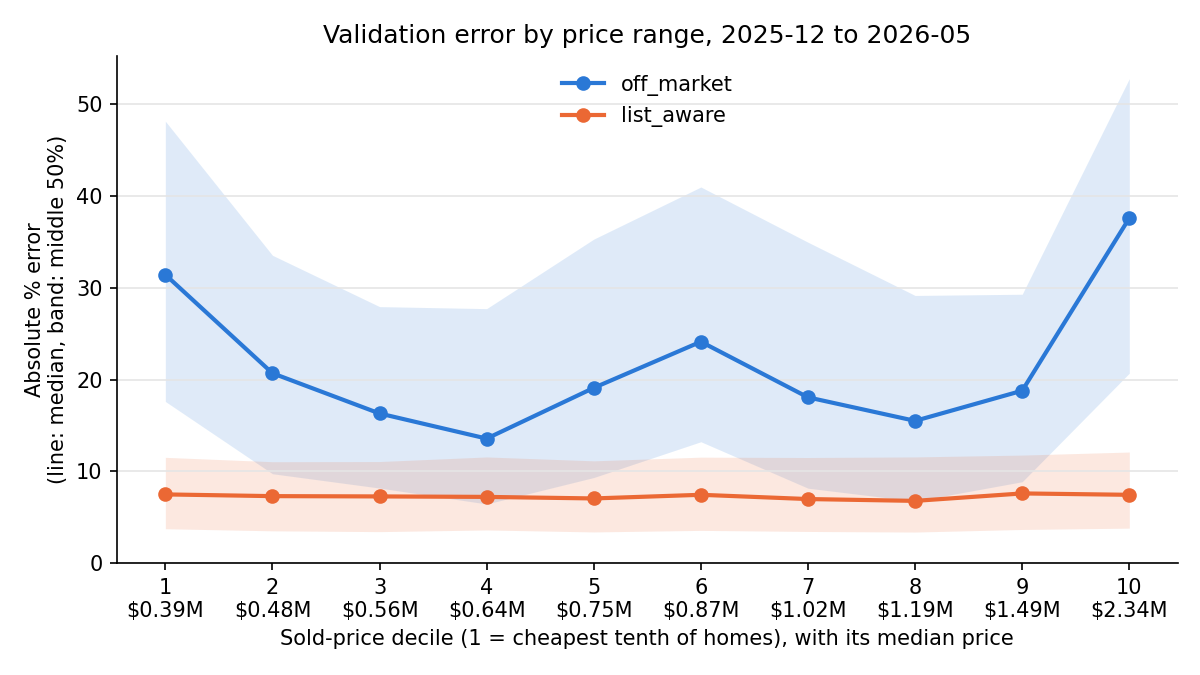
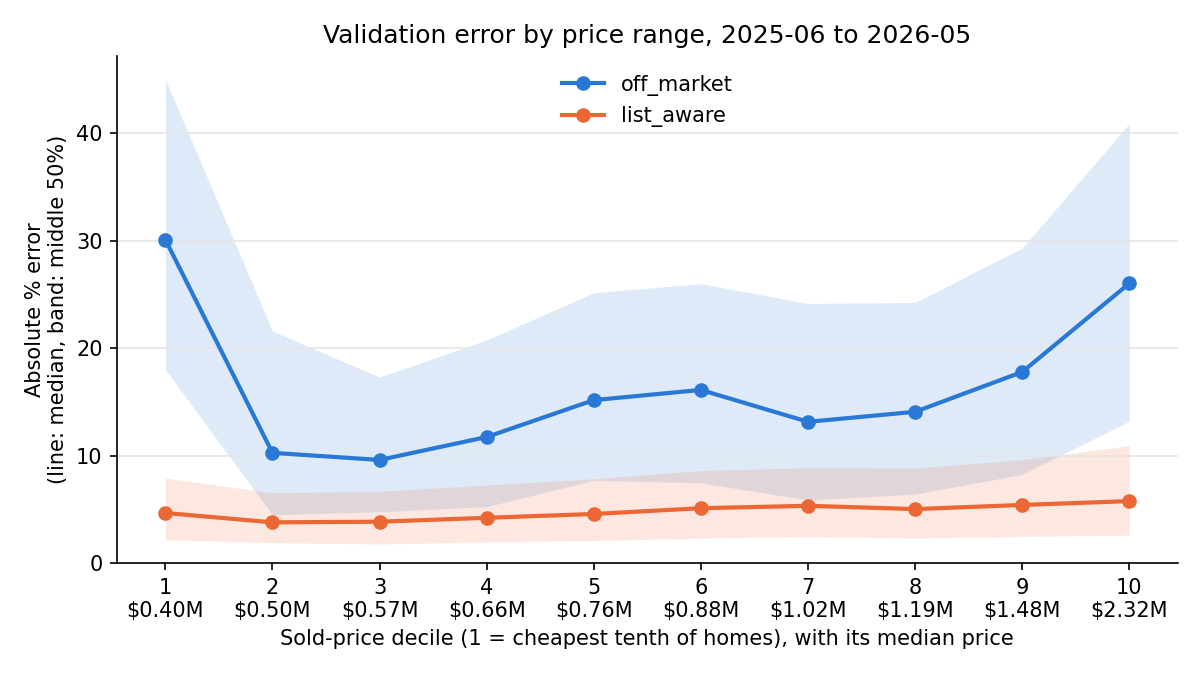
Switch on FeatureModel and validate 4 months ahead like the hidden test
Both tracks now use the gradient-boosted FeatureModel on the starter
features. Validation now mirrors the hidden test (train through May,
predict June to September): three folds with cutoffs 2025-06, 2025-10
and 2026-02, each predicting the 4 months after it. Predictions record
months_ahead, and the validation report adds MdAPE by months ahead.

Logged experiments (MdAPE, off-market / list-aware):
- 1: FeatureModel, 1-month validation: 14.87% / 4.61%
- 2: FeatureModel, 4-month validation: 15.52% / 4.71%
- 3: starter baselines, 4-month validation: 20.94% / 7.17%

Off-market error grows from 14.4% to 16.1% between 1 and 4 months
ahead, and its bias follows the market after the cutoff; notebook
entries cover this.

diff --git a/report/notebook.tex b/report/notebook.tex
@@ -74,6 +74,146 @@ Switch on the gradient-boosted \texttt{FeatureModel} for both tracks, then make 
 up to four months ahead, as the hidden test does.
 
 % ---------------------------------------------------------------------------------------
+\section*{Experiment 1: gradient-boosted trees on the starter features}
+
+\paragraph{What changed.}
+\texttt{make\_model} now returns \texttt{FeatureModel} for both tracks: gradient-boosted trees
+(scikit-learn's \texttt{HistGradientBoostingRegressor}, default settings) predicting log price from
+the starter features. These are square feet, bedrooms, washrooms, parking, latitude, longitude,
+months since January 2021 and property type, plus the list price for list-aware.
+
+\paragraph{Why.}
+Unlike the baselines, it can use each home's own size and features. The handout presents it as
+the first model to switch on.
+
+\paragraph{Result.}
+
+\begin{center}
+\small
+\input{experiments/experiment_01_results.tex}
+\end{center}
+
+\begin{center}
+\includegraphics[width=0.8\linewidth]{experiment_01_error_by_price_range.png}
+\end{center}
+
+\paragraph{What we learned.}
+\begin{itemize}
+\item \textbf{A large gain on both tracks.} Off-market MdAPE fell from 20.84\% to 14.87\%, below
+  the 17.7\% bar. List-aware fell from 7.26\% to 4.61\%: the model learns that homes sell below
+  list, and by how much for each type.
+\item \textbf{The overpricing is mostly gone:} median signed error +1.0\% off-market, +0.7\%
+  list-aware.
+\item \textbf{Off-market still squeezes prices towards the middle.} The cheapest tenth is
+  overpriced by 30\% and the dearest tenth underpriced by 24\%. The features say little about
+  what makes a home cheap or dear for its area: neighbourhood price level, lot size, condition.
+\item \textbf{By type (off-market):} condo apartments 14.0\%, detached 17.3\%, co-op apartments
+  26.0\% (only 48 homes). List-aware is weakest on semi-detached (6.1\%) and detached (5.9\%)
+  homes.
+\end{itemize}
+
+\paragraph{Next.}
+This validation predicts only one month ahead, but the hidden test predicts up to four. Fix that
+before trusting any number.
+
+% ---------------------------------------------------------------------------------------
+\section*{Experiment 2: validation four months ahead, like the hidden test}
+
+\paragraph{What changed.}
+Validation only, not the model. Before, each month from December 2025 to May 2026 was predicted
+from all sales before it, so always one month ahead. The hidden test trains on sales up to May
+2026 and predicts homes sold June to September, one to four months ahead. Validation now does the
+same in three folds: it trains on sales before June 2025, October 2025 and February 2026, and
+predicts the four months after each, twelve months in all. The report gains a table of error by
+months ahead.
+
+\paragraph{Why.}
+Validation should be a fair preview of the hidden test, since the judges compare the two (10
+points for honesty). A one-month-ahead score overstates how well a model does four months out.
+
+\paragraph{Result.}
+
+\begin{center}
+\small
+\input{experiments/experiment_02_results.tex}
+\end{center}
+
+\begin{center}
+\small
+\begin{tabular}{lcccc}
+\toprule
+Months ahead & 1 & 2 & 3 & 4 \\
+\midrule
+Off-market MdAPE \% & 14.4 & 15.8 & 15.9 & 16.1 \\
+Off-market median signed error \% & +2.2 & +3.0 & +3.4 & +3.7 \\
+List-aware MdAPE \% & 4.7 & 4.6 & 4.7 & 4.8 \\
+\bottomrule
+\end{tabular}
+\end{center}
+
+\paragraph{What we learned.}
+\begin{itemize}
+\item \textbf{The honest off-market error is 15.52\%, not 14.87\%,} and it rises from 14.4\% one
+  month ahead to 16.1\% four months ahead. Part of the change from experiment 1 also comes from
+  covering different months. The months-ahead table, all on the same homes, isolates the
+  effect of the horizon.
+\item \textbf{The model cannot follow the market past its last training month.} Trees hold the
+  \texttt{months} feature at its last value. In the June to September 2025 fold the market was
+  falling and off-market overpricing grew from +3.7\% in June to +9.8\% in August. In February to
+  May 2026 it was slightly negative ($-0.6$ to $-2.2$\%). The bias follows whatever the market did
+  after the cutoff.
+\item \textbf{The fold most like the hidden test is the worst.} June to September 2025, the same
+  season as the test, has off-market MdAPE from 14.7\% to 17.3\%.
+\item \textbf{List-aware barely changes with the horizon} (4.6\% to 4.8\%): the list price already
+  carries the current market.
+\end{itemize}
+
+\paragraph{Next.}
+Starter baselines under this validation, to measure the gap fairly (experiment 3). Then a market
+price index, so the model can project prices past May 2026.
+
+% ---------------------------------------------------------------------------------------
+\section*{Experiment 3: starter baselines under the four-month validation}
+
+\paragraph{What changed.}
+Nothing in the models: the starter baselines from experiment 0, rerun under the validation of
+experiment 2. They were run by swapping them into \texttt{make\_model} for this one run, which
+is why \texttt{experiments.csv} lists \texttt{models.py} as edited. The committed
+\texttt{models.py} still uses \texttt{FeatureModel}.
+
+\paragraph{Why.}
+Scores from different validations cannot be compared. This gives the baseline row for the
+report's results table, on the same homes as experiment 2.
+
+\paragraph{Result.}
+
+\begin{center}
+\small
+\input{experiments/experiment_03_results.tex}
+\end{center}
+
+\begin{center}
+\includegraphics[width=0.8\linewidth]{experiment_03_error_by_price_range.png}
+\end{center}
+
+\paragraph{What we learned.}
+\begin{itemize}
+\item \textbf{On the same homes, \texttt{FeatureModel} beats the baselines by a wide margin.}
+  Off-market MdAPE is 15.52\% against 20.94\%, and list-aware 4.71\% against 7.17\%.
+\item \textbf{The baselines hardly change with the horizon} (off-market 20.5\% to 22.1\%, list
+  price 7.1\% to 7.3\%). Their errors come mostly from ignoring the home's own features, not
+  from how old the data is.
+\item \textbf{The nearest-sales baseline overprices more the further ahead it predicts}
+  (+7.9\% one month ahead, +9.3\% to +10.4\% after). Like \texttt{FeatureModel}, it does not
+  adjust old sales for the market's movement.
+\end{itemize}
+
+\paragraph{Next.}
+Measure the official bar (the median sale of the same type and neighbourhood over the past 12
+months) under this validation, so we know our real margin above it. Then the market price index
+and features that use past sales.
+
+% ---------------------------------------------------------------------------------------
 % Entry template: copy it above this line, replace NN with the experiment number.
 %
 % \section*{Experiment NN: short title}

diff --git a/run.py b/run.py
@@ -1,6 +1,6 @@
 """Run the whole pipeline. From this folder:
 
-    python run.py validate   test the models on the last six months of sales
+    python run.py validate   test the models on the last twelve months of sales
     python run.py report     score those predictions and draw a figure
     python run.py report "what changed"
                              the same, and also log the scores as a new experiment in report/
@@ -25,29 +25,39 @@ from check_submission import check_all
 
 ROOT = Path(__file__).parent
 TRACKS = ["off_market", "list_aware"]
-# Walk-forward validation: each of these months is predicted by models trained only
-# on the sales before that month, the same way the real test works.
-VALIDATION_MONTHS = pd.period_range("2025-12", "2026-05", freq="M")
+# Walk-forward validation, the same way the real test works: the test trains on the
+# sales up to May 2026 and predicts the homes sold in the 4 months after (June to
+# September). So each fold trains on the sales before a cutoff and predicts the homes
+# sold in the HORIZON months from it, 1 to 4 months ahead.
+HORIZON = 4
+VALIDATION_CUTOFFS = pd.period_range("2025-06", "2026-02", freq="M")[::HORIZON]   # 2025-06, 2025-10, 2026-02
+VALIDATION_MONTHS = pd.period_range(VALIDATION_CUTOFFS[0], periods=HORIZON * len(VALIDATION_CUTOFFS), freq="M")
 # How validation works, in words. Logged with every experiment: scores from different
 # schemes are not comparable, so update this whenever you change validate().
-VALIDATION_SCHEME = (f"monthly walk-forward, {VALIDATION_MONTHS[0]} to {VALIDATION_MONTHS[-1]}: "
-                     "each month predicted from all sales before it")
+VALIDATION_SCHEME = (f"{HORIZON}-month-ahead walk-forward, {VALIDATION_MONTHS[0]} to {VALIDATION_MONTHS[-1]}: "
+                     f"{len(VALIDATION_CUTOFFS)} folds, each predicting {HORIZON} months from the sales before them")
 
 
 def validate():
     listings = data.load("listings")
     results = []
-    for month in VALIDATION_MONTHS:
-        train = listings[listings["date_sold"] < month.start_time]
-        homes = listings[listings["date_sold"].dt.to_period("M") == month]
+    for cutoff in VALIDATION_CUTOFFS:
+        train = listings[listings["date_sold"] < cutoff.start_time]
+        sold_month = listings["date_sold"].dt.to_period("M")
+        homes = listings[(sold_month >= cutoff) & (sold_month < cutoff + HORIZON)]
+        month = homes["date_sold"].dt.to_period("M")
+        # 1 = sold in the first month after the cutoff, as June is for the hidden test.
+        months_ahead = 12 * (month.dt.year - cutoff.year) + month.dt.month - cutoff.month + 1
         for track in TRACKS:
             model = models.make_model(track).fit(train)
             predicted = model.predict(data.hide_answers(homes, track))
             results.append(pd.DataFrame({
-                "ml_num": homes["ml_num"], "track": track, "month": str(month),
+                "ml_num": homes["ml_num"], "track": track, "month": month.astype(str),
+                "months_ahead": months_ahead,
                 "house_type_name": homes["house_type_name"], "sold_price": homes["sold_price"],
                 "predicted_price": np.round(predicted)}))
-        print(f"{month}: trained on {len(train):,} earlier sales, predicted {len(homes):,} homes")
+        print(f"{cutoff} to {cutoff + HORIZON - 1}: trained on {len(train):,} earlier sales, "
+              f"predicted {len(homes):,} homes")
     path = ROOT / "outputs" / "validation_predictions.csv"
     path.parent.mkdir(exist_ok=True)
     pd.concat(results).to_csv(path, index=False)
@@ -105,8 +115,8 @@ def report(label=None):
     (ROOT / "reports" / "validation_report.json").write_text(json.dumps(scores, indent=2))
     lines = [
         "# Validation report", "",
-        f"Walk-forward validation, {VALIDATION_MONTHS[0]} to {VALIDATION_MONTHS[-1]}: each month was "
-        "predicted by models trained only on the sales before it.",
+        f"Walk-forward validation, {VALIDATION_MONTHS[0]} to {VALIDATION_MONTHS[-1]}: models trained only on "
+        f"the sales before {', '.join(map(str, VALIDATION_CUTOFFS))} predicted the {HORIZON} months after each.",
         "Errors are (predicted - sold) / sold. Brackets: bootstrap 95% interval.", "",
         "| Track | Homes | MAPE | MdAPE | Median signed error |", "|---|---|---|---|---|"]
     for track, s in scores.items():
@@ -118,7 +128,13 @@ def report(label=None):
         "A median signed error above 0 means the model tends to predict too high.",
         "The intervals treat homes as independent. Homes sold in the same month share the same",
         "market swings, so the real uncertainty is somewhat wider.", "",
-        "![Error by price range](../figures/error_by_price_range.png)", ""]
+        f"MdAPE by months ahead of the training cutoff (the hidden test is 1 to {HORIZON} months ahead):", "",
+        "| Months ahead | " + " | ".join(TRACKS) + " |", "|---" * (len(TRACKS) + 1) + "|"]
+    absolute = 100 * (predictions["predicted_price"] - predictions["sold_price"]).abs() / predictions["sold_price"]
+    by_ahead = absolute.groupby([predictions["months_ahead"], predictions["track"]]).median().unstack()
+    for ahead, row in by_ahead.iterrows():
+        lines.append(f"| {ahead} | " + " | ".join(f"{row[track]:.2f}%" for track in TRACKS) + " |")
+    lines += ["", "![Error by price range](../figures/error_by_price_range.png)", ""]
     (ROOT / "reports" / "validation_report.md").write_text("\n".join(lines))
     write_latex_table(scores, ROOT / "reports" / "results_table.tex")
     error_by_price_range(predictions)

diff --git a/report/experiments_table.tex b/report/experiments_table.tex
@@ -7,5 +7,9 @@
 \midrule
 \multicolumn{7}{@{}p{14cm}}{\textit{Validation: monthly walk-forward, 2025-12 to 2026-05: each month predicted from all sales before it}} \\
 0 & 2026-10-23 & Starter baselines: 10 nearest earlier sales (off-market), list price (list-aware) & 20.84 & 27.43 & 7.26 & 8.09 \\
+1 & 2026-10-23 & FeatureModel (gradient-boosted trees, starter features) on both tracks & 14.87 & 19.23 & 4.61 & 5.82 \\
+\multicolumn{7}{@{}p{14cm}}{\textit{Validation: 4-month-ahead walk-forward, 2025-06 to 2026-05: 3 folds, each predicting 4 months from the sales before them}} \\
+2 & 2026-10-23 & FeatureModel (gradient-boosted trees, starter features) on both tracks & 15.52 & 19.94 & 4.71 & 5.92 \\
+3 & 2026-10-23 & Starter baselines under 4-month validation: 10 nearest earlier sales (off-market), list price (list-aware) & 20.94 & 27.84 & 7.17 & 8.00 \\
 \bottomrule
 \end{tabular}

diff --git a/models.py b/models.py
@@ -16,10 +16,10 @@ import features
 def make_model(track):
     """Return a fresh, untrained model for "off_market" or "list_aware"."""
     if track == "list_aware":
-        return ListPriceBaseline()
-        # return FeatureModel(features.list_aware_features)   # try this instead
-    return NearestSalesBaseline(k=10)
-    # return FeatureModel(features.off_market_features)       # try this instead
+        # return ListPriceBaseline()
+        return FeatureModel(features.list_aware_features)
+    # return NearestSalesBaseline(k=10)
+    return FeatureModel(features.off_market_features)
 
 
 class ListPriceBaseline:

diff --git a/reports/results_table.tex b/reports/results_table.tex
@@ -3,7 +3,7 @@
 \hline
 Track & Homes & MdAPE \% (95\% CI) & MAPE \% (95\% CI) & Median signed error \% \\
 \hline
-off-market & 10,069 & 20.84 (20.40--21.36) & 27.43 (26.95--27.94) & +8.07 \\
-list-aware & 10,069 & 7.26 (7.12--7.41) & 8.09 (7.98--8.20) & +5.68 \\
+off-market & 22,238 & 15.52 (15.24--15.79) & 19.94 (19.71--20.16) & +3.02 \\
+list-aware & 22,238 & 4.71 (4.63--4.79) & 5.92 (5.86--5.99) & +1.25 \\
 \hline
 \end{tabular}

diff --git a/report/experiments/experiment_01_results.tex b/report/experiments/experiment_01_results.tex
@@ -1,0 +1,9 @@
+% Written by `python run.py report`. Do not edit by hand: rerun the command instead.
+\begin{tabular}{lrccc}
+\hline
+Track & Homes & MdAPE \% (95\% CI) & MAPE \% (95\% CI) & Median signed error \% \\
+\hline
+off-market & 10,069 & 14.87 (14.50--15.23) & 19.23 (18.92--19.57) & +1.02 \\
+list-aware & 10,069 & 4.61 (4.50--4.71) & 5.82 (5.72--5.91) & +0.68 \\
+\hline
+\end{tabular}

diff --git a/report/experiments/experiment_02_results.tex b/report/experiments/experiment_02_results.tex
@@ -1,0 +1,9 @@
+% Written by `python run.py report`. Do not edit by hand: rerun the command instead.
+\begin{tabular}{lrccc}
+\hline
+Track & Homes & MdAPE \% (95\% CI) & MAPE \% (95\% CI) & Median signed error \% \\
+\hline
+off-market & 22,238 & 15.52 (15.24--15.79) & 19.94 (19.71--20.16) & +3.02 \\
+list-aware & 22,238 & 4.71 (4.63--4.79) & 5.92 (5.86--5.99) & +1.25 \\
+\hline
+\end{tabular}

diff --git a/report/experiments/experiment_03_results.tex b/report/experiments/experiment_03_results.tex
@@ -1,0 +1,9 @@
+% Written by `python run.py report`. Do not edit by hand: rerun the command instead.
+\begin{tabular}{lrccc}
+\hline
+Track & Homes & MdAPE \% (95\% CI) & MAPE \% (95\% CI) & Median signed error \% \\
+\hline
+off-market & 22,238 & 20.94 (20.63--21.28) & 27.84 (27.49--28.17) & +9.14 \\
+list-aware & 22,238 & 7.17 (7.07--7.27) & 8.00 (7.92--8.06) & +5.75 \\
+\hline
+\end{tabular}

diff --git a/tasks/todo.md b/tasks/todo.md
@@ -4,8 +4,8 @@ Goal: off-market hidden-test MdAPE well under the 17.7% bar; list-aware under 7.
 Deadline: Nov 8, 11:59 pm EST.
 
 ## Steps
-- [ ] 1. Switch on `FeatureModel` for both tracks, rerun `validate` + `report`, record the numbers
-- [ ] 2. Make validation match the test horizon: train on sales before a cutoff, predict the next 4 months
+- [x] 1. Switch on `FeatureModel` for both tracks, rerun `validate` + `report`, record the numbers
+- [x] 2. Make validation match the test horizon: train on sales before a cutoff, predict the next 4 months
       (test = train through May 2026, predict homes listed up to Sep 2026)
 - [ ] 3. Let features see past sales: `features(homes, history)`, with point-in-time stats for training rows
       (each row only sees sales sold before it was listed)
@@ -22,3 +22,10 @@ Deadline: Nov 8, 11:59 pm EST.
 - Experiment 0, starter baselines (monthly walk-forward): off-market MdAPE 20.84 / MAPE 27.43,
   list-aware 7.26 / 8.09. Off-market biased +8% and squeezed toward neighbourhood prices; list price
   ~5.7% above sale.
+- Experiment 1, FeatureModel (monthly walk-forward): off-market 14.87 / 19.23, list-aware 4.61 / 5.82.
+- Validation now 4 months ahead in 3 folds (2025-06, 2025-10, 2026-02 cutoffs), like the hidden test.
+- Experiment 2, FeatureModel (4-month): off-market 15.52 / 19.94, list-aware 4.71 / 5.92. Off-market
+  error grows 14.4 -> 16.1 from 1 to 4 months ahead; bias follows the market after the cutoff
+  (trees can't extrapolate `months`) -> step 5 (market index) matters.
+- Experiment 3, starter baselines (4-month): off-market 20.94 / 27.84, list-aware 7.17 / 8.00.
+- TODO: measure the official bar (type x neighbourhood 12-month median) under 4-month validation.
